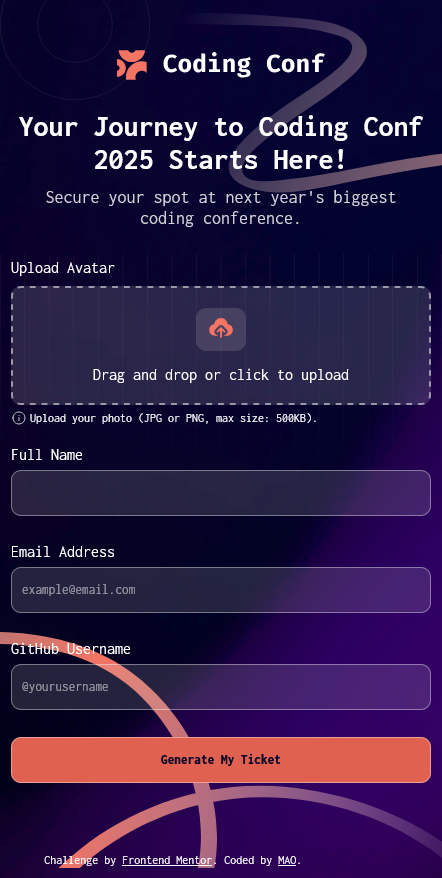
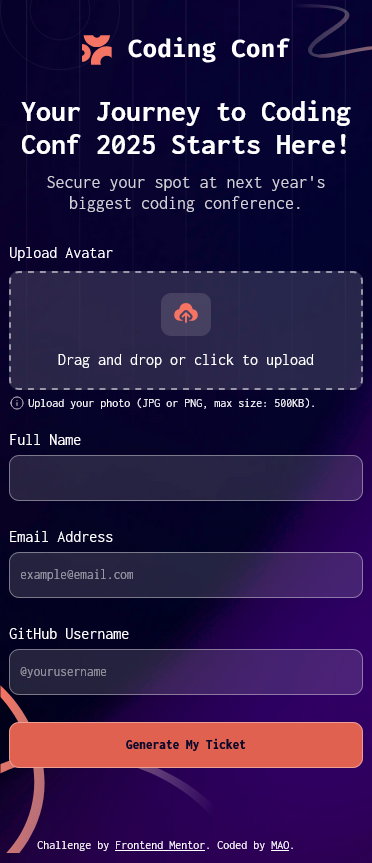
Corrected the paths to the screenshots

diff --git a/README.md b/README.md
@@ -20,7 +20,7 @@ This project was undertaken to solidify my knowledge of core front-end technolog
 ## Screenshot
 
 ![Screenshot of Ticket Generator on Desktop](Screenshots/desktop/desktop.png)
-![Screenshot of Ticket Generator on Mobile](Sreenshots/mobile/mobile.png)
+![Screenshot of Ticket Generator on Mobile](Screenshots/mobile/mobile.png)
 
 ## Links
 
@@ -57,4 +57,4 @@ I faced a significant challenge with implementing the drag-and-drop image upload
 
 ## Acknowledgments
 
-* Inspired by various Frontend Mentor challenges and online tutorials.
+- Inspired by various Frontend Mentor challenges and online tutorials.
